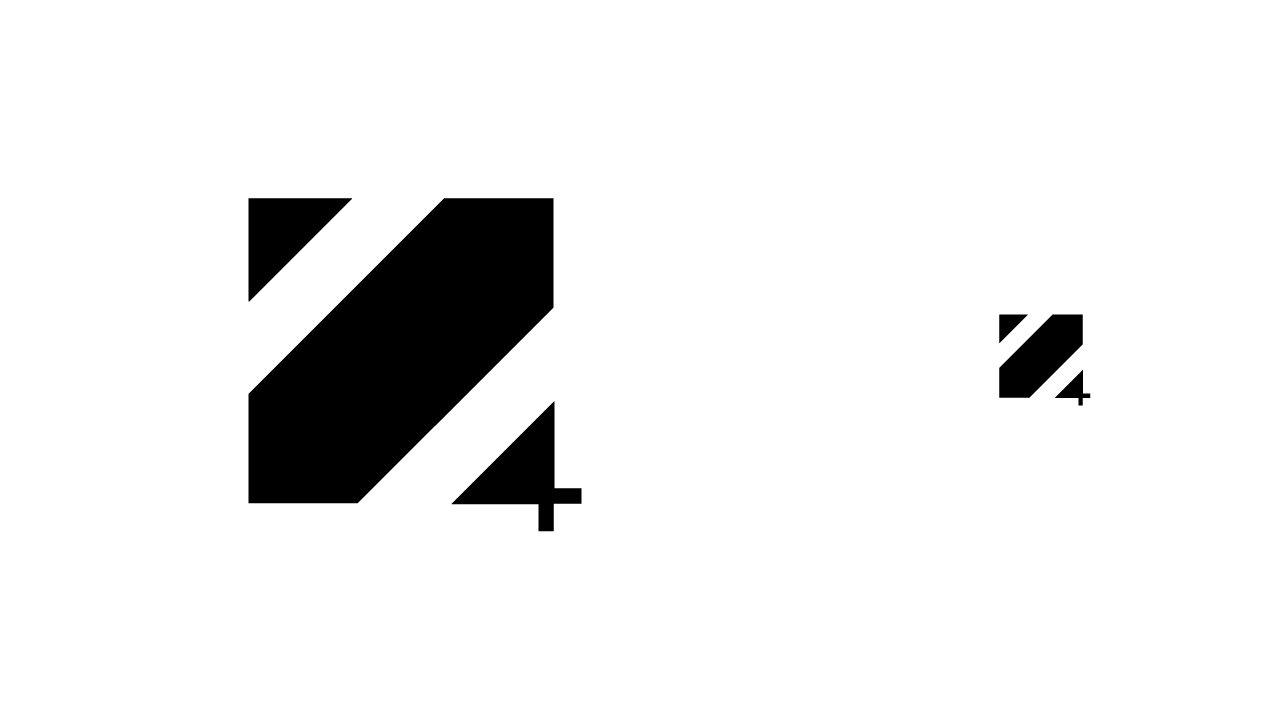
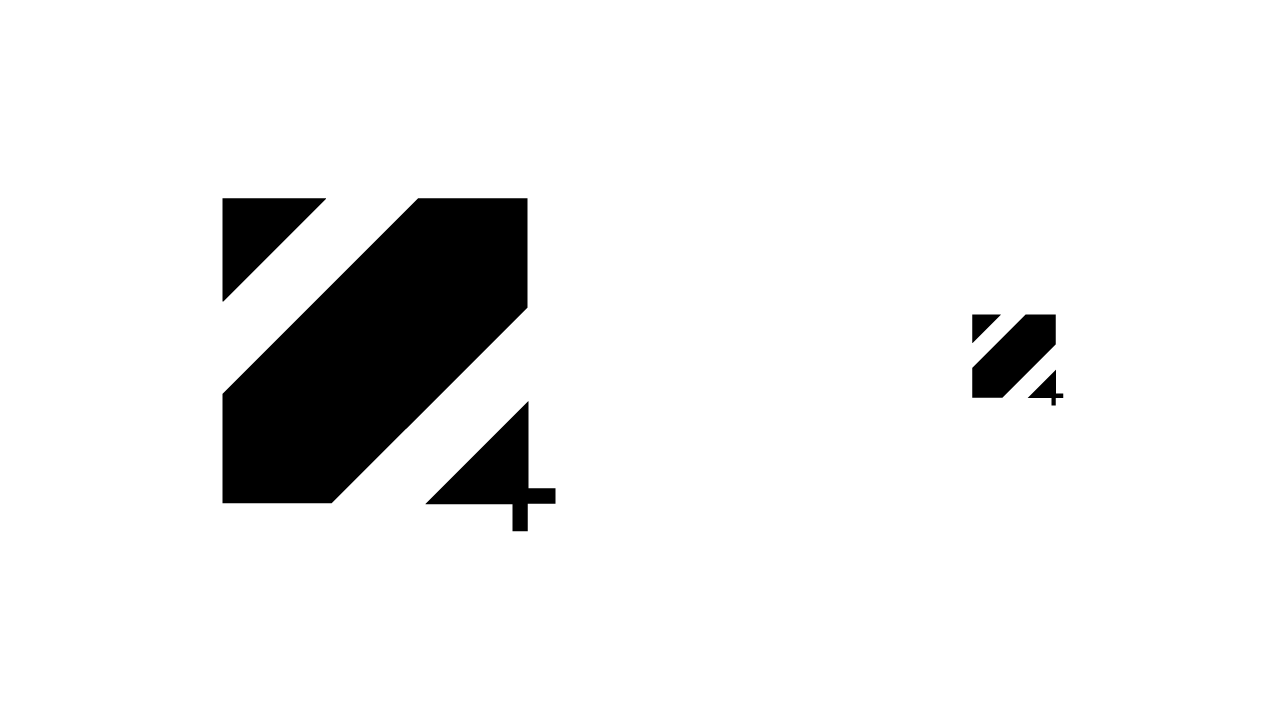
change zzip symbol file

diff --git a/zzip/index.html b/zzip/index.html
@@ -66,6 +66,8 @@
       <div class="zzip-body">
 
       <img src="img/Zzip-cover.jpg" alt="logo" width="100%">
+      <img src="img/Zzip-logo-variations.png" alt="logo" width="100%">
+      <img src="img/Zzip-symbols.png" alt="logo" width="100%" margin-top=130px;>
 
       </div>
 
